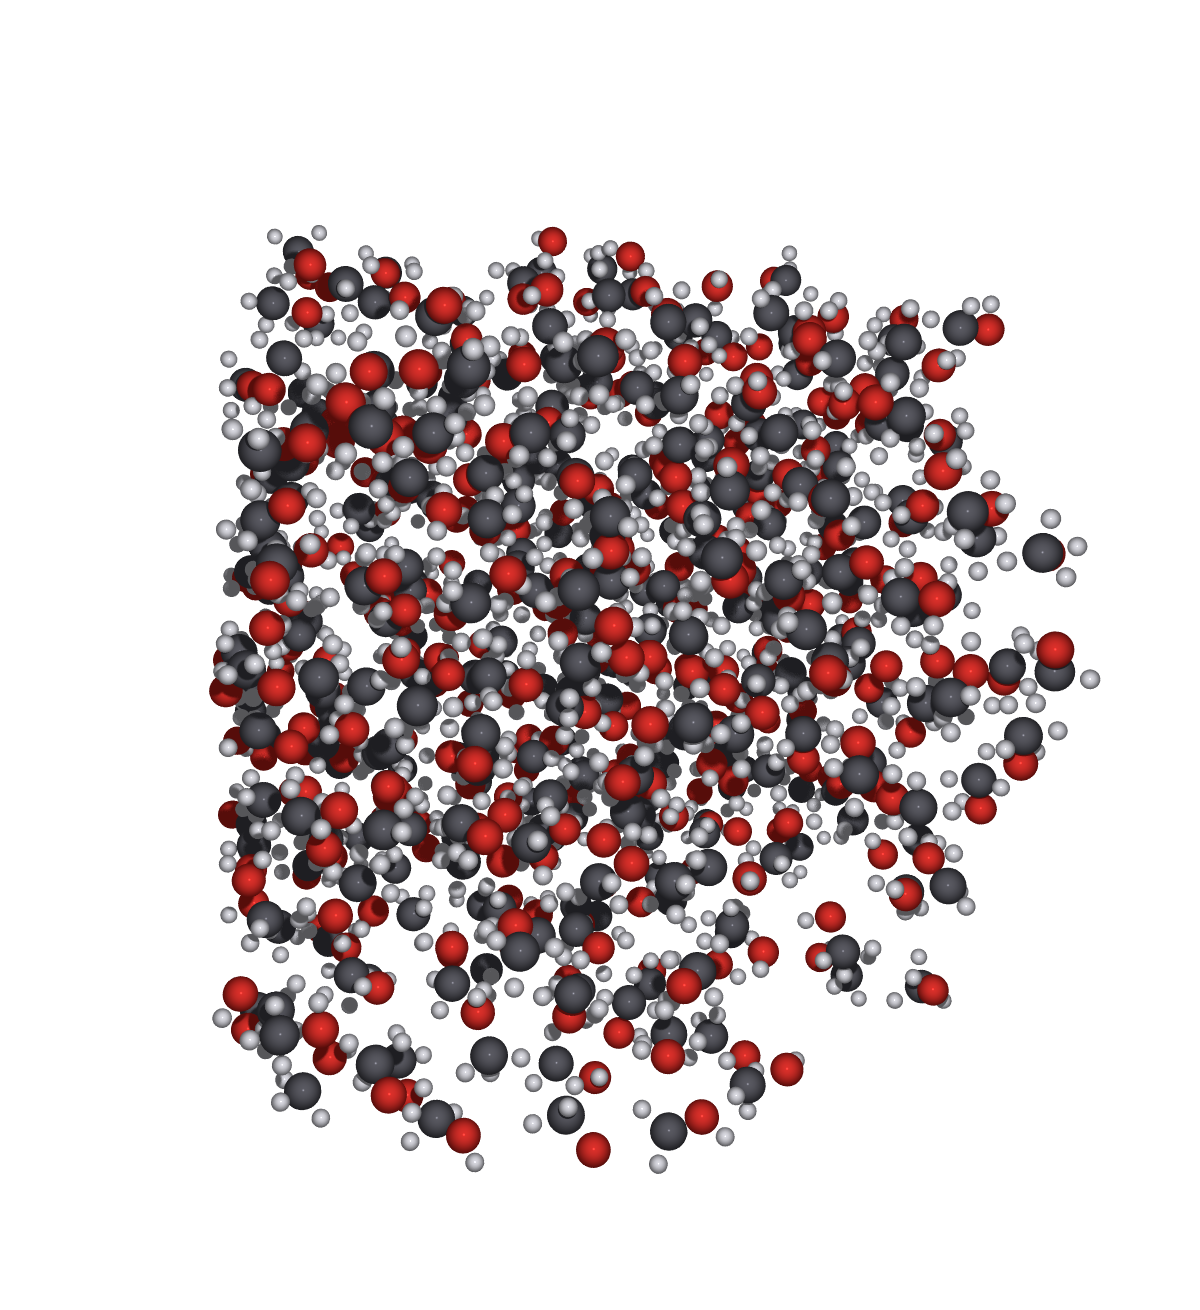
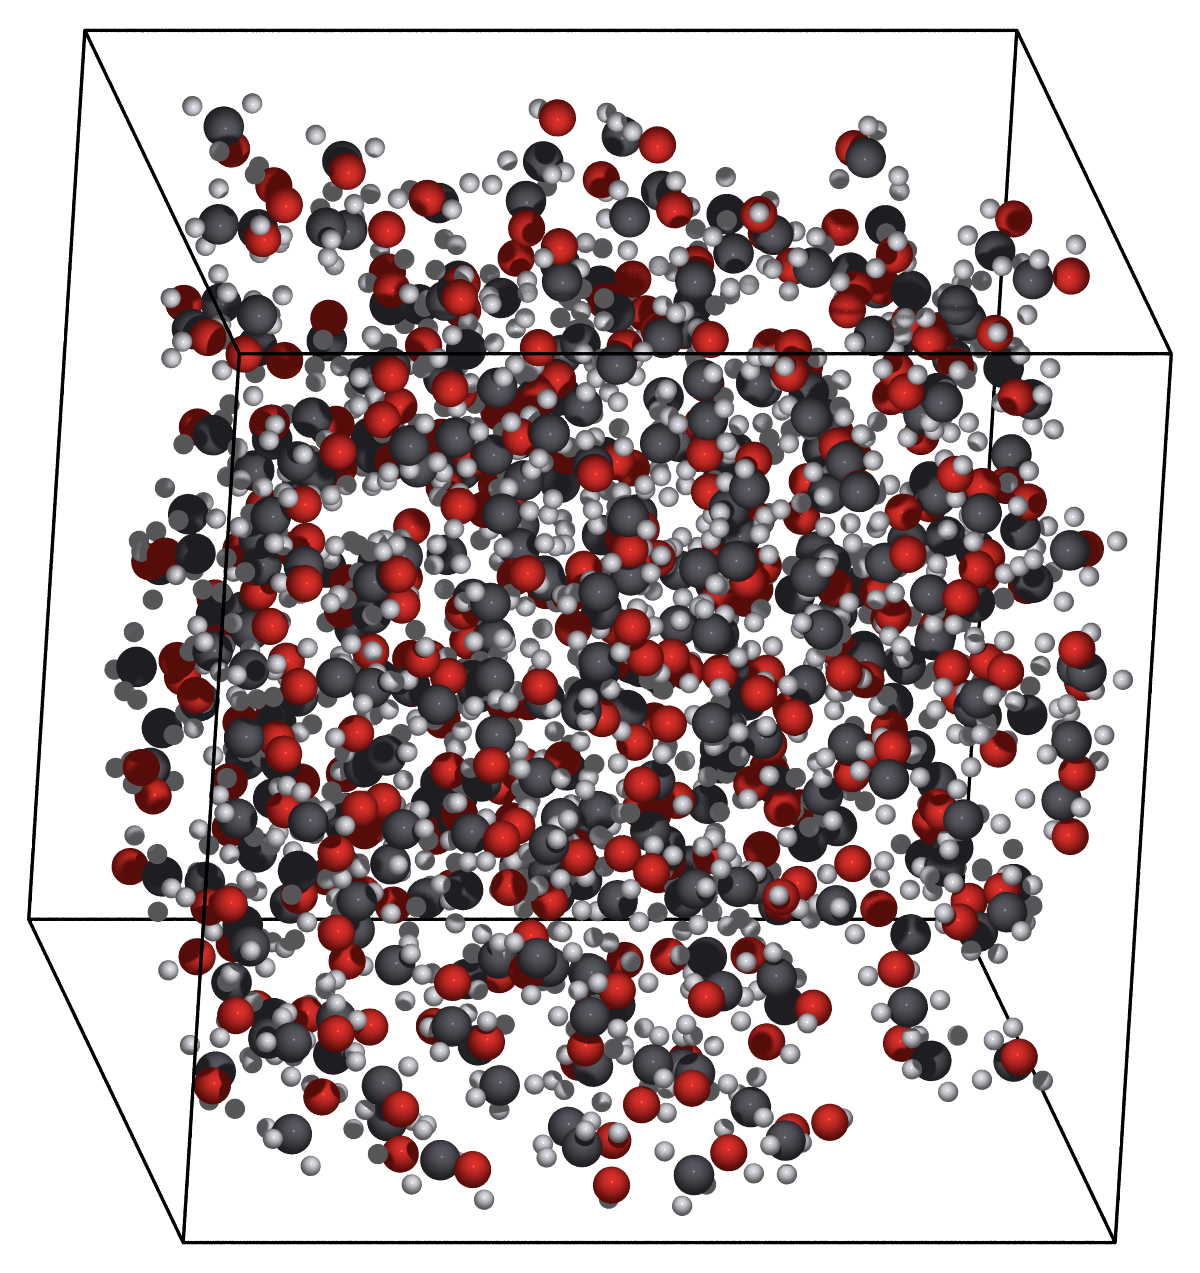
update(images): replace binary image files for DES-SO3LR dimers
This commit updates several binary image files related to the DES-SO3LR dimers, including packmol, pretreat, prepladder, final, and stages images for both MEOH and TIP3 systems. The changes ensure that the latest visual representations are included in the documentation, enhancing the clarity and accuracy of the associated materials.

diff --git a/tests/unit/test_scaled_lj_charmm_in_the_loop.py b/tests/unit/test_scaled_lj_charmm_in_the_loop.py
@@ -1,20 +1,28 @@
 """CHARMM-in-the-loop: deployed LJ scales must reach CHARMM's own VDW energy.
 
 `test_scaled_cgenff_prm.py` proves the rewritten prm carries the right numbers.
-This proves CHARMM *reads* them, and — more importantly — that deploying twice
-does not apply the scales twice. Silent double-application is the failure this
-whole mechanism exists to avoid: it produces a plausible-looking energy from a
-force field nobody fitted.
+This proves CHARMM *reads* them, and pins the session contract that makes the
+wiring safe.
 
-The assertions are exact rather than approximate. Pair epsilons combine as
+Everything lives in one test because of a hard CHARMM constraint: a **second**
+non-append parameter read into a live session silently zeroes the VDW energy.
+Measured on this fixture:
+
+    base 1.11008  ->  2.22016 after the first deploy  ->  0.00000 after a
+    second unguarded one
+
+So `deploy_scaled_lj_into_charmm` allows one real deploy per process, and this
+test spends that one deploy exercising every assertion that genuinely needs
+CHARMM. Split into separate test functions these pass individually and fail as
+a file, which is worse than useless in CI.
+
+The epsilon assertion is exact, not approximate. Pair epsilons combine as
 ``eps_ij = sqrt(eps_i * eps_j)``, so scaling *every* type's epsilon by ``f``
-scales every pair epsilon by exactly ``f``; LJ energy is linear in eps_ij, and
-CHARMM's switching function depends only on r. Therefore::
-
-    E_vdw(all eps x f)  ==  f * E_vdw(base)
-
-to float precision, through CHARMM's full nonbond machinery. Sigma has no such
-identity (it sits inside r^-12/r^-6), so it is checked for *effect* instead.
+scales every pair epsilon by exactly ``f``; LJ energy is linear in eps_ij and
+CHARMM's switching function depends only on r. Hence
+``E_vdw(all eps x f) == f * E_vdw(base)`` through the full nonbond machinery.
+Sigma has no such identity (it sits inside r^-12/r^-6), so sigma behaviour is
+covered by the pure-Python table tests instead.
 """
 
 from __future__ import annotations
@@ -31,24 +39,31 @@ if not can_import_pycharmm():
 
 pytestmark = pytest.mark.pycharmm
 
+EPS_FACTOR = 2.0
 
-def _sidecar(tmp_path, names, *, eps_factor=1.0, sig_factor=1.0, name="hybrid_mm.json"):
+
+def _sidecar(tmp_path, names, *, eps_factor=1.0, name="hybrid_mm.json"):
     p = tmp_path / name
     p.write_text(json.dumps({
         "learn_mm_lj_scales": True,
         "cgenff_type_names": list(names),
-        "mm_lj_sigma_scale": [sig_factor] * len(names),
+        "mm_lj_sigma_scale": [1.0] * len(names),
         "mm_lj_epsilon_scale": [eps_factor] * len(names),
-        # Widen bounds: this is a deliberate probe, not a trained sidecar.
+        # Widened: this is a deliberate probe, not a trained sidecar.
         "mm_lj_sigma_scale_bounds": [0.5, 2.0],
         "mm_lj_epsilon_scale_bounds": [0.1, 10.0],
     }))
     return p
 
 
-@pytest.fixture
-def charmm_dimer(pycharmm_workdir):
-    """Fresh TIP3+MEOH system; returns a callable giving CHARMM's VDW energy."""
+def _live_types():
+    from mmml.models.mm_lj_scales import cgenff_type_names_from_prm
+
+    return [n for n in cgenff_type_names_from_prm() if n != "DEFAULT"]
+
+
+def _build_vdw_probe():
+    """Return a callable giving CHARMM's VDW energy for a fresh TIP3+MEOH PSF."""
     import pandas as pd
     import pycharmm
     import pycharmm.coor as coor
@@ -58,11 +73,11 @@ def charmm_dimer(pycharmm_workdir):
     import pycharmm.read as read
     import pycharmm.settings as settings
 
+    from mmml.analysis.dimer_molecules import make_oriented_scan_geometries
     from mmml.data.cgenff_dataset import load_reference, reorder_to_cgenff_template
     from mmml.interfaces.pycharmmInterface.import_pycharmm import (
         CGENFF_PRM, CGENFF_RTF, pycharmm_quiet, reset_block,
     )
-    from mmml.analysis.dimer_molecules import make_oriented_scan_geometries
 
     pycharmm_quiet()
     reset_block()
@@ -90,111 +105,52 @@ def charmm_dimer(pycharmm_workdir):
     return vdw_energy
 
 
-def _live_types():
-    """CGenFF type names present in the parameter files."""
-    from mmml.models.mm_lj_scales import cgenff_type_names_from_prm
-
-    return [n for n in cgenff_type_names_from_prm() if n != "DEFAULT"]
-
-
-def test_charmm_vdw_picks_up_the_deployed_epsilon_scale(tmp_path, charmm_dimer):
-    """The headline: CHARMM's own VDW must change by exactly the scale factor."""
+def test_scaled_lj_reaches_charmm_and_the_session_contract_holds(
+    tmp_path, pycharmm_workdir
+):
+    from mmml.interfaces.pycharmmInterface.mlpot import scaled_cgenff_prm
     from mmml.interfaces.pycharmmInterface.mlpot.scaled_cgenff_prm import (
         deploy_scaled_lj_into_charmm,
     )
 
-    base = charmm_dimer()
-    assert abs(base) > 1e-6, "degenerate fixture: base VDW is ~0, nothing to scale"
+    scaled_cgenff_prm.reset_deployed_lj_scales()
+    vdw = _build_vdw_probe()
+    types = _live_types()
 
-    deploy_scaled_lj_into_charmm(
-        _sidecar(tmp_path, _live_types(), eps_factor=2.0),
-        out_dir=tmp_path / "scaled",
-        verbose=False,
-    )
-    scaled = charmm_dimer()
+    base = vdw()
+    assert abs(base) > 1e-6, "degenerate fixture: base VDW ~0, nothing to scale"
 
-    assert scaled == pytest.approx(2.0 * base, rel=1e-6), (
-        f"CHARMM VDW {scaled} is not 2x the base {base}; the deployed prm "
-        "either did not reach CHARMM or did not carry the scale"
-    )
-
-
-def test_deploying_twice_does_not_double_apply(tmp_path, charmm_dimer):
-    """The bug this mechanism exists to prevent.
-
-    Re-deploying must re-derive from the pristine parameter files, not scale the
-    already-scaled ones. If it compounded, the second call would give 4x.
-    """
-    from mmml.interfaces.pycharmmInterface.mlpot.scaled_cgenff_prm import (
-        deploy_scaled_lj_into_charmm,
-    )
-
-    base = charmm_dimer()
-    sidecar = _sidecar(tmp_path, _live_types(), eps_factor=2.0)
-
+    sidecar = _sidecar(tmp_path, types, eps_factor=EPS_FACTOR)
     deploy_scaled_lj_into_charmm(sidecar, out_dir=tmp_path / "s1", verbose=False)
-    once = charmm_dimer()
+    once = vdw()
+
+    # 1. CHARMM's own VDW picked up the deployed scale, exactly.
+    assert once == pytest.approx(EPS_FACTOR * base, rel=1e-6), (
+        f"CHARMM VDW {once} is not {EPS_FACTOR}x the base {base}; the deployed "
+        "prm either did not reach CHARMM or did not carry the scale. "
+        "(A ratio of exactly 1.0 means the parameter read was append-only, "
+        "which does not override existing NONBONDED entries.)"
+    )
+
+    # 2. Parameters survive a PSF rebuild.
+    assert vdw() == pytest.approx(once, rel=1e-9), "deploy did not survive PSF rebuild"
+
+    # 3. Re-deploying the same sidecar is a guarded no-op, not a second read.
     deploy_scaled_lj_into_charmm(sidecar, out_dir=tmp_path / "s2", verbose=False)
-    twice = charmm_dimer()
-
-    assert once == pytest.approx(2.0 * base, rel=1e-6)
+    twice = vdw()
     assert twice == pytest.approx(once, rel=1e-9), (
-        f"double application: {twice} vs {once} (would be "
-        f"{4.0 * base} if scales compounded)"
+        f"repeat deploy changed the energy: {twice} vs {once}. 0.0 means the "
+        f"second parameter read wiped the VDW; {EPS_FACTOR**2 * base} would "
+        "mean the scales compounded."
     )
+    assert abs(twice) > 1e-9, "second read zeroed the VDW"
 
+    # 4. A *different* sidecar must refuse rather than silently zero the VDW.
+    other = _sidecar(tmp_path, types, eps_factor=3.0, name="other.json")
+    with pytest.raises(RuntimeError, match="already deployed"):
+        deploy_scaled_lj_into_charmm(other, out_dir=tmp_path / "s3", verbose=False)
 
-def test_deploy_order_relative_to_psf_build_does_not_matter(tmp_path, charmm_dimer):
-    """Parameters are read into CHARMM globally; the PSF is rebuilt per call.
+    # ...and the refusal left the session intact.
+    assert vdw() == pytest.approx(once, rel=1e-9)
 
-    Deploying before or after a PSF build must give the same energy, or the
-    wiring becomes order-sensitive in a way callers cannot reason about.
-    """
-    from mmml.interfaces.pycharmmInterface.mlpot.scaled_cgenff_prm import (
-        deploy_scaled_lj_into_charmm,
-    )
-
-    sidecar = _sidecar(tmp_path, _live_types(), eps_factor=1.5)
-
-    # Deploy first, then build+evaluate.
-    deploy_scaled_lj_into_charmm(sidecar, out_dir=tmp_path / "a", verbose=False)
-    before = charmm_dimer()
-
-    # Build+evaluate once more (PSF rebuilt), then re-deploy and evaluate.
-    _ = charmm_dimer()
-    deploy_scaled_lj_into_charmm(sidecar, out_dir=tmp_path / "b", verbose=False)
-    after = charmm_dimer()
-
-    assert before == pytest.approx(after, rel=1e-9)
-
-
-def test_sigma_scale_changes_the_energy(tmp_path, charmm_dimer):
-    """Sigma has no linear identity, so assert effect rather than a factor."""
-    from mmml.interfaces.pycharmmInterface.mlpot.scaled_cgenff_prm import (
-        deploy_scaled_lj_into_charmm,
-    )
-
-    base = charmm_dimer()
-    deploy_scaled_lj_into_charmm(
-        _sidecar(tmp_path, _live_types(), sig_factor=1.1),
-        out_dir=tmp_path / "scaled",
-        verbose=False,
-    )
-    scaled = charmm_dimer()
-
-    assert scaled != pytest.approx(base, rel=1e-6), "sigma scale had no effect"
-
-
-def test_unit_scales_leave_charmm_vdw_untouched(tmp_path, charmm_dimer):
-    """A sidecar of all-1.0 must be a genuine no-op end to end."""
-    from mmml.interfaces.pycharmmInterface.mlpot.scaled_cgenff_prm import (
-        deploy_scaled_lj_into_charmm,
-    )
-
-    base = charmm_dimer()
-    deploy_scaled_lj_into_charmm(
-        _sidecar(tmp_path, _live_types()),
-        out_dir=tmp_path / "scaled",
-        verbose=False,
-    )
-    assert charmm_dimer() == pytest.approx(base, rel=1e-9)
+    scaled_cgenff_prm.reset_deployed_lj_scales()

diff --git a/mmml/interfaces/pycharmmInterface/mlpot/scaled_cgenff_prm.py b/mmml/interfaces/pycharmmInterface/mlpot/scaled_cgenff_prm.py
@@ -41,10 +41,14 @@ from dataclasses import dataclass, field
 from pathlib import Path
 from typing import Mapping
 
+# (fingerprint, sidecar path, stats) for the one deploy this session allows.
+_DEPLOYED: tuple[str, str, dict] | None = None
+
 __all__ = [
     "ScaledPrmStats",
     "default_parameter_files",
     "deploy_scaled_lj_into_charmm",
+    "reset_deployed_lj_scales",
     "scale_nonbonded_block",
     "write_scaled_cgenff_prm",
 ]
@@ -263,13 +267,45 @@ def deploy_scaled_lj_into_charmm(
     is off (``do_mm = include_mm and not periodic_mode``), so per-type scales
     can only reach the energy through the parameter file itself.
 
-    Writes scaled copies of every CGenFF parameter file and reads them back with
-    ``append=True`` so the NONBONDED entries override the ones already loaded.
-    Returns the per-file stats.
+    Writes scaled copies of every CGenFF parameter file and reads them into the
+    live session. Returns the per-file stats.
+
+    **Callable once per CHARMM session.** A *second* non-append parameter read
+    into a live session silently zeroes the VDW energy (measured: base 1.11008
+    -> 2.22016 after the first deploy -> 0.00000 after the second). There is no
+    way to re-read parameters safely afterwards, so:
+
+    * re-deploying the same sidecar is a no-op and returns the cached stats;
+    * deploying a *different* sidecar raises -- restart CHARMM instead.
+
+    Both branches exist so a caller can invoke this defensively without having
+    to reason about whether some other code path already did.
     """
+    import hashlib
     import tempfile
 
     from mmml.interfaces.pycharmmInterface.nbonds_config import read_cgenff_prm
+
+    fingerprint = hashlib.sha256(
+        Path(sidecar).read_bytes() + f"|scale_14={bool(scale_14)}".encode()
+    ).hexdigest()
+    previous = globals().get("_DEPLOYED")
+    if previous is not None:
+        prev_fp, prev_sidecar, prev_results = previous
+        if prev_fp == fingerprint:
+            if verbose:
+                print(
+                    f"[lj-scales] already deployed from {Path(prev_sidecar).name}; "
+                    "skipping re-read (a second parameter read would zero the VDW)",
+                    flush=True,
+                )
+            return prev_results
+        raise RuntimeError(
+            "LJ scales were already deployed into this CHARMM session from "
+            f"{prev_sidecar}; deploying a different sidecar ({sidecar}) would "
+            "require a second non-append parameter read, which silently zeroes "
+            "the VDW energy. Restart CHARMM to change sidecars."
+        )
 
     if out_dir is None:
         out_dir = Path(tempfile.mkdtemp(prefix="mmml-scaled-lj-"))
@@ -293,6 +329,8 @@ def deploy_scaled_lj_into_charmm(
     for i, path in enumerate(ordered):
         read_cgenff_prm(path, append=(i > 0))
 
+    globals()["_DEPLOYED"] = (fingerprint, str(sidecar), results)
+
     if verbose:
         total = sum(len(s.scaled) for s in results.values())
         print(
@@ -302,3 +340,12 @@ def deploy_scaled_lj_into_charmm(
             flush=True,
         )
     return results
+
+
+def reset_deployed_lj_scales() -> None:
+    """Clear the once-per-session guard. Tests only.
+
+    Does NOT undo the parameter read -- nothing can, short of restarting
+    CHARMM. Calling this and deploying again will zero the VDW energy.
+    """
+    globals()["_DEPLOYED"] = None

diff --git a/mmml/interfaces/pycharmmInterface/mlpot/hybrid_mlpot.py b/mmml/interfaces/pycharmmInterface/mlpot/hybrid_mlpot.py
@@ -1398,6 +1398,21 @@ def build_decomposed_mlpot_model(
     do_ml = True if args is None else bool(getattr(args, "do_ml", True))
     include_mm = True if args is None else bool(getattr(args, "include_mm", True))
     do_mm = include_mm and not periodic_mode
+
+    # periodic_external takes its VDW from CHARMM IMAGE, so `do_mm` is False and
+    # the JAX pair loop that applies per-type LJ scales never runs. Trained
+    # scales therefore have to reach the energy through CHARMM's parameters.
+    # See scaled_cgenff_prm: this is exact (per-type, pre-combining), and it is
+    # a once-per-session operation -- re-deploying is a guarded no-op, and a
+    # different sidecar raises rather than silently zeroing the VDW.
+    if periodic_mode and include_mm and args is not None:
+        scales_file = getattr(args, "mm_lj_scales_file", None)
+        if scales_file:
+            from mmml.interfaces.pycharmmInterface.mlpot.scaled_cgenff_prm import (
+                deploy_scaled_lj_into_charmm,
+            )
+
+            deploy_scaled_lj_into_charmm(scales_file, verbose=verbose)
     do_ml_dimer = True if args is None else bool(getattr(args, "do_ml_dimer", True))
     if args is not None and bool(getattr(args, "skip_ml_dimers", False)):
         do_ml_dimer = False

diff --git a/scripts/render_liquid_box_povray.py b/scripts/render_liquid_box_povray.py
@@ -86,10 +86,19 @@ def resolve_box_side_A(
 
 
 def attach_cell_if_needed(atoms, side_A: float | None):
-    """Set a cubic cell when atoms lack one and ``side_A`` is known."""
+    """Set a cubic cell when atoms lack one and ``side_A`` is known.
+
+    Packmol / CHARMM stage PDBs are usually centered near the origin with no
+    ``CRYST1``. ASE draws the unit cell from the coordinate origin along the
+    cell vectors, so attaching ``[L,L,L]`` without shifting leaves the wireframe
+    sitting in the positive octant while the liquid sits around zero. Shift the
+    atom centroid to ``L/2`` so the cube encloses the liquid.
+    """
     if _atoms_have_cell(atoms) or side_A is None:
         return atoms, False
     atoms = atoms.copy()
+    pos = np.asarray(atoms.get_positions(), dtype=np.float64)
+    atoms.set_positions(pos - pos.mean(axis=0) + 0.5 * float(side_A))
     atoms.set_cell([side_A, side_A, side_A])
     atoms.set_pbc(True)
     return atoms, True

diff --git a/tests/unit/test_render_liquid_box_povray.py b/tests/unit/test_render_liquid_box_povray.py
@@ -66,6 +66,8 @@ def test_attach_cell_from_box_json(tmp_path: Path):
     assert attached
     assert atoms.cell.rank == 3
     np.testing.assert_allclose(atoms.cell.lengths(), [28.0, 28.0, 28.0])
+    # Centroid lands at the cube centre so the wireframe encloses the liquid.
+    np.testing.assert_allclose(atoms.get_positions().mean(axis=0), [14.0, 14.0, 14.0], atol=1e-9)
 
 
 def test_box_side_cli_overrides_json(tmp_path: Path):
